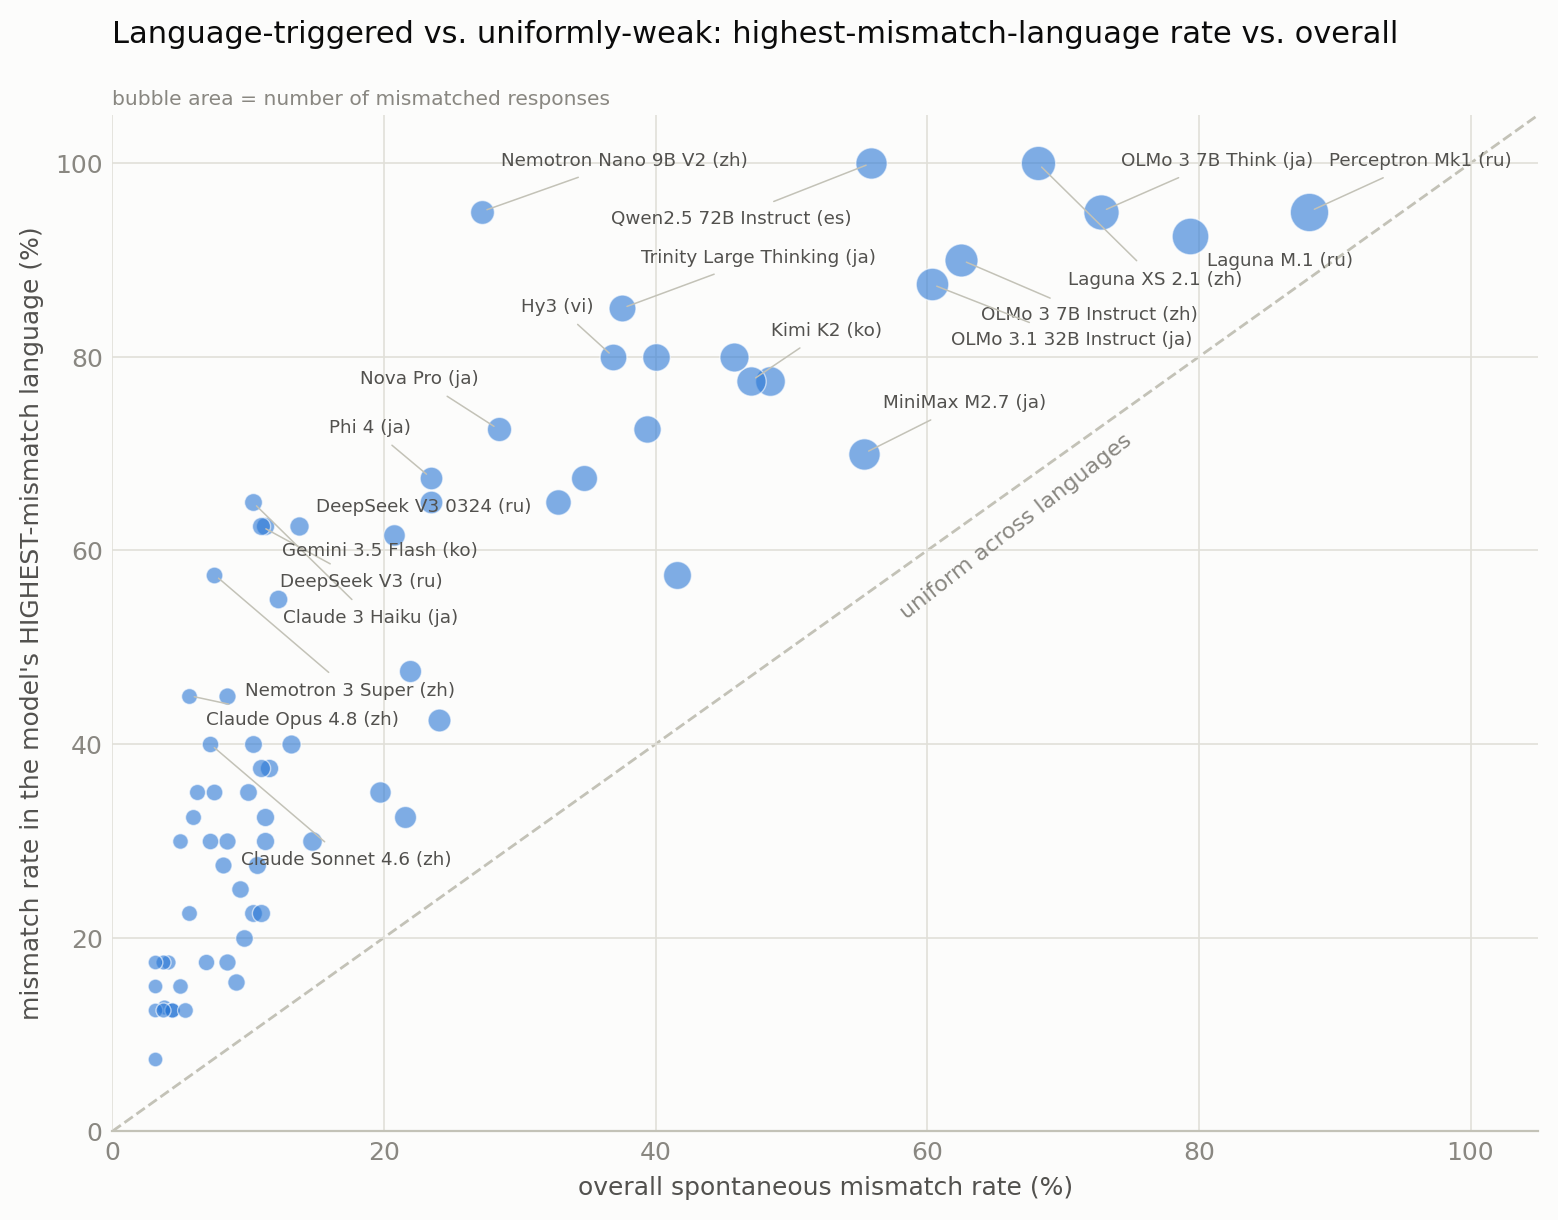
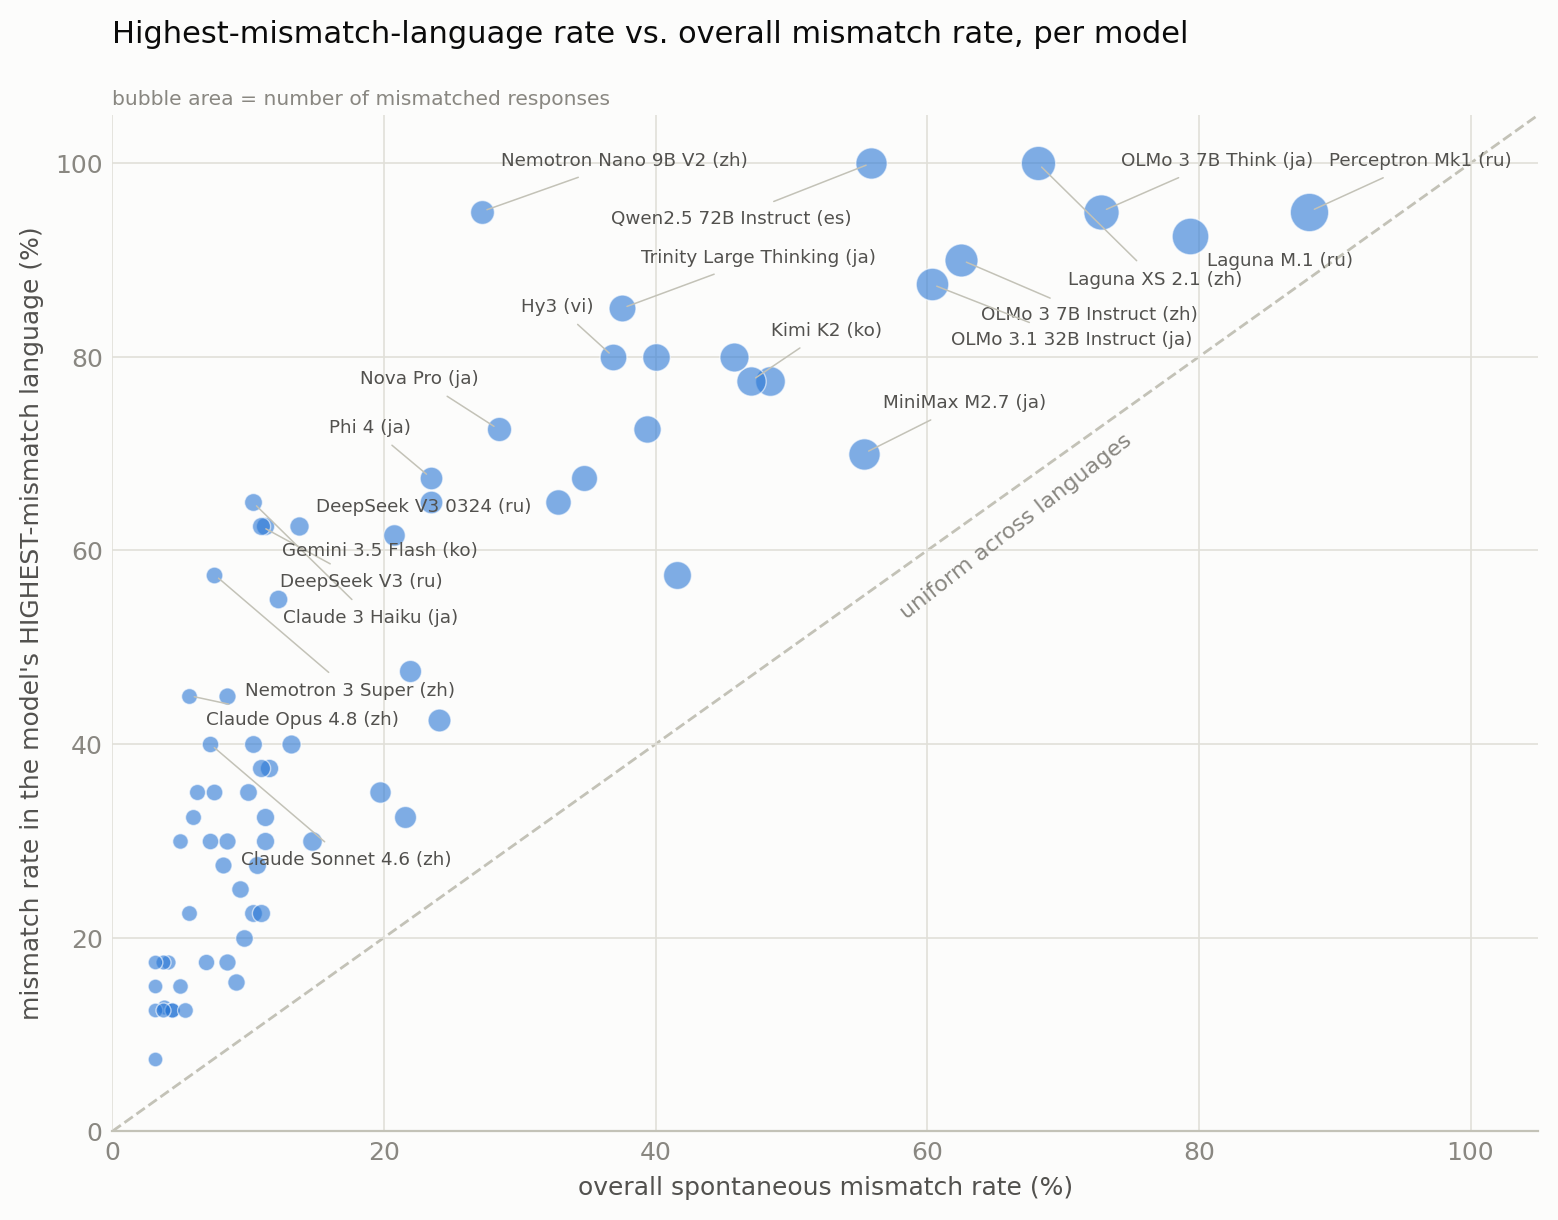
Apply title policy to fig_lang_conditional (descriptive only)
Claude-Session: https://claude.ai/code/session_01Anj4JvuNgPGS3kunnJgPkZ

Changed region(s): [[0.0616, 0.0, 0.801, 0.0623], [0.8318, 0.0, 0.8935, 0.0311]]

diff --git a/sweep/explain.py b/sweep/explain.py
@@ -244,7 +244,7 @@ def fig_lang_conditional(data):
                    color="#2a78d6", alpha=0.6, edgecolor="white", linewidth=0.5, zorder=3)
     ax.set_xlabel("overall spontaneous mismatch rate (%)")
     ax.set_ylabel("mismatch rate in the model's HIGHEST-mismatch language (%)")
-    ax.set_title("Language-triggered vs. uniformly-weak: highest-mismatch-language rate vs. overall",
+    ax.set_title("Highest-mismatch-language rate vs. overall mismatch rate, per model",
                  fontsize=11, color=INK, loc="left", pad=26)
     ax.text(0, 1.006, "bubble area = number of mismatched responses",
             transform=ax.transAxes, fontsize=7.3, color=MUTED, va="bottom")
